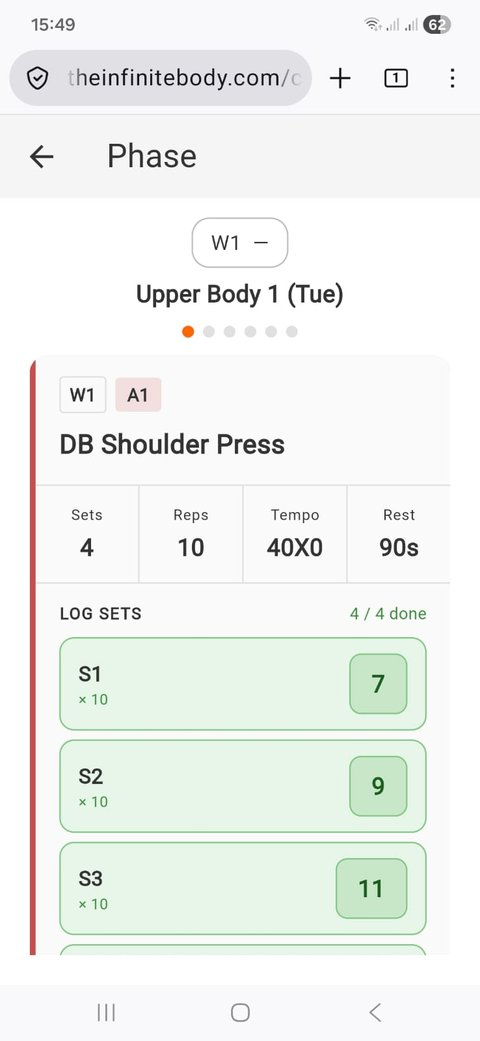
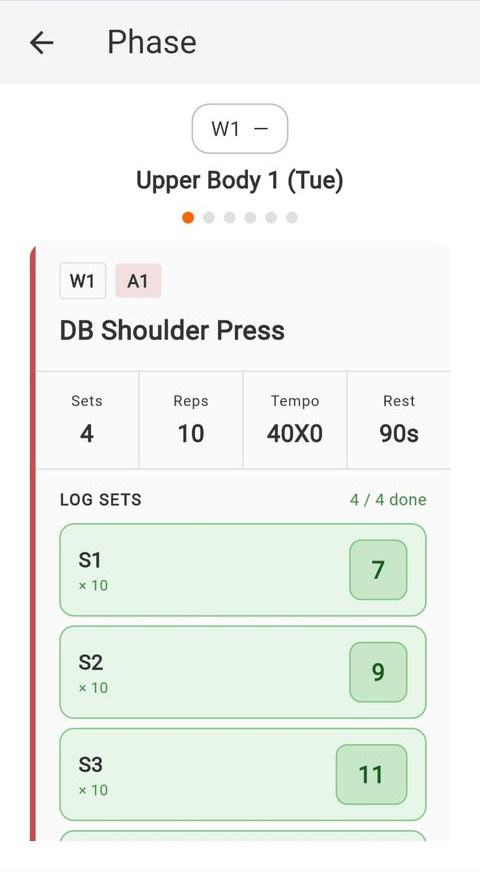
Homepage: settle orange tokens, crop browser chrome from screenshots
Brand orange corrected to Hagen's #ff6500 (was #ff6600), with
--orange-bright re-derived as #ff7c1a. Adds --orange-rgb and
--orange-bright-rgb so the alpha tints derive from the token instead
of repeating literal rgb triples, and swaps every hardcoded #ff7d1a
(including inline SVG fill/stroke attrs) for var(--orange-bright).
Sections can now only consume tokens.

Crops the Android status/URL bar off the phone screenshot and the
baked-in device border plus system bar off the matrix screenshot --
the browser chrome undercut the "this isn't a website" positioning.

app-set-logging.jpg was byte-identical to app-phase-logging.jpg;
deduped to one asset referenced twice. Also adds fetchpriority=high
to the hero image (it is the LCP element) and drops a no-op
aria-hidden="false".

diff --git a/index-v2.html b/index-v2.html
@@ -19,9 +19,11 @@
 <link href="https://fonts.googleapis.com/css2?family=Poppins:wght@500;600;700;800&family=Hanken+Grotesk:wght@400;500;600;700&family=Caveat:wght@600&display=swap" rel="stylesheet">
 <style>
   :root{
-    --orange:#ff6600;
-    --orange-bright:#ff7d1a;
+    --orange:#ff6500;
+    --orange-bright:#ff7c1a;
     --orange-soft:#fff1e6;
+    --orange-rgb:255,101,0;
+    --orange-bright-rgb:255,124,26;
     --ink:#1f2024;
     --ink-deep:#161719;
     --charcoal:#2b2c30;
@@ -77,8 +79,8 @@
     transition:transform .18s ease, box-shadow .18s ease, background .18s ease;
     white-space:nowrap;
   }
-  .btn-primary{background:var(--orange);color:#fff;box-shadow:0 6px 18px rgba(255,102,0,.32)}
-  .btn-primary:hover{background:var(--orange-bright);transform:translateY(-2px);box-shadow:0 10px 26px rgba(255,102,0,.42)}
+  .btn-primary{background:var(--orange);color:#fff;box-shadow:0 6px 18px rgba(var(--orange-rgb),.32)}
+  .btn-primary:hover{background:var(--orange-bright);transform:translateY(-2px);box-shadow:0 10px 26px rgba(var(--orange-rgb),.42)}
   .btn-primary .arrow{transition:transform .18s ease}
   .btn-primary:hover .arrow{transform:translateX(4px)}
   .btn-ghost{background:transparent;color:var(--ink);border:1.5px solid var(--line);}
@@ -119,7 +121,7 @@
   .hero{
     position:relative;padding:78px 0 90px;
     background:
-      radial-gradient(900px 420px at 78% -8%, rgba(255,102,0,.10), transparent 60%),
+      radial-gradient(900px 420px at 78% -8%, rgba(var(--orange-rgb),.10), transparent 60%),
       linear-gradient(180deg,#fff 0%, #fafbfc 100%);
     overflow:hidden;
   }
@@ -182,7 +184,7 @@
             mask-image:radial-gradient(620px 440px at 86% 2%,#000,transparent 72%)}
   .pain-grid{display:grid;grid-template-columns:repeat(2,1fr);gap:18px;position:relative}
   .pain{display:flex;gap:14px;align-items:flex-start;background:var(--charcoal-2);border:1px solid var(--line-dark);border-radius:14px;padding:22px 24px}
-  .pain .x{flex:none;width:26px;height:26px;border-radius:7px;background:rgba(255,102,0,.16);color:var(--orange-bright);display:grid;place-items:center;font-weight:700;font-family:var(--display);font-size:.95rem}
+  .pain .x{flex:none;width:26px;height:26px;border-radius:7px;background:rgba(var(--orange-rgb),.16);color:var(--orange-bright);display:grid;place-items:center;font-weight:700;font-family:var(--display);font-size:.95rem}
   .pain p{color:#d7d9dd;font-size:1rem}
   .pain p b{color:#fff}
   .pivot{margin-top:40px;text-align:center;font-family:var(--display);font-weight:600;font-size:1.25rem;color:#fff}
@@ -209,11 +211,11 @@
   .screens-stack .screen-card.back{width:84%;z-index:1}
   .proof-points{list-style:none;display:flex;flex-direction:column;gap:22px;margin-top:6px}
   .proof-points li{display:flex;gap:16px;align-items:flex-start}
-  .proof-points .ic{flex:none;width:42px;height:42px;border-radius:11px;background:rgba(255,102,0,.16);display:grid;place-items:center}
+  .proof-points .ic{flex:none;width:42px;height:42px;border-radius:11px;background:rgba(var(--orange-rgb),.16);display:grid;place-items:center}
   .proof-points h4{font-size:1.12rem;color:#fff;margin-bottom:3px}
   .proof-points p{color:#c4c7cd;font-size:.98rem}
   .proof-note{margin-top:30px;font-size:.92rem;color:var(--grey-light);display:flex;align-items:center;gap:10px}
-  .proof-note .pill{font-family:var(--display);font-weight:600;font-size:.72rem;letter-spacing:.12em;text-transform:uppercase;color:var(--orange-bright);border:1px solid rgba(255,125,26,.4);padding:4px 9px;border-radius:6px}
+  .proof-note .pill{font-family:var(--display);font-weight:600;font-size:.72rem;letter-spacing:.12em;text-transform:uppercase;color:var(--orange-bright);border:1px solid rgba(var(--orange-bright-rgb),.4);padding:4px 9px;border-radius:6px}
 
   /* method + about */
   .about-grid{display:grid;grid-template-columns:.85fr 1.15fr;gap:56px;align-items:center}
@@ -251,7 +253,7 @@
   .faq details p{padding:0 4px 24px;color:var(--grey);font-size:1.02rem;max-width:680px}
 
   /* final cta */
-  .finalcta{background:radial-gradient(700px 380px at 80% 10%,rgba(255,102,0,.18),transparent 60%),var(--ink-deep);color:#fff;text-align:center;position:relative;overflow:hidden}
+  .finalcta{background:radial-gradient(700px 380px at 80% 10%,rgba(var(--orange-rgb),.18),transparent 60%),var(--ink-deep);color:#fff;text-align:center;position:relative;overflow:hidden}
   .finalcta .wrap{position:relative;z-index:2;padding:104px 24px}
   .finalcta h2{font-size:clamp(2rem,4vw,3rem);font-weight:800;max-width:780px;margin:0 auto}
   .finalcta p{color:#c4c7cd;font-size:1.15rem;margin:20px auto 34px;max-width:540px}
@@ -325,8 +327,8 @@
       <p class="hero-cta reveal d4"><span class="micro">Free · ~20 minutes · <b>no pitch, just a fit check</b></span></p>
     </div>
 
-    <div class="device reveal d2" aria-hidden="false">
-      <img src="assets/app-phase-logging.jpg" width="480" height="1041" decoding="async" alt="The Infinite Body app showing a workout phase with set-by-set logging">
+    <div class="device reveal d2">
+      <img src="assets/app-phase-logging.jpg" width="480" height="872" fetchpriority="high" decoding="async" alt="The Infinite Body app showing a workout phase with set-by-set logging">
       <div class="tag"><span class="dot"></span> 4 / 4 sets logged</div>
     </div>
   </div>
@@ -335,10 +337,10 @@
 <!-- ============ TRUST STRIP ============ -->
 <div class="trust">
   <div class="wrap">
-    <div class="item"><svg width="18" height="18" viewBox="0 0 24 24" fill="none"><path d="M12 2l2.5 6.5L21 9l-5 4.5L17.5 21 12 17l-5.5 4L8 13.5 3 9l6.5-.5z" fill="#ff7d1a"/></svg> <b>Coaching since 2008</b></div>
-    <div class="item"><svg width="18" height="18" viewBox="0 0 24 24" fill="none"><path d="M3 12h4l3 7 4-14 3 7h4" stroke="#ff7d1a" stroke-width="2" stroke-linecap="round" stroke-linejoin="round"/></svg> Loads calculated from <b>your real maxes</b></div>
-    <div class="item"><svg width="18" height="18" viewBox="0 0 24 24" fill="none"><rect x="3" y="4" width="18" height="16" rx="2" stroke="#ff7d1a" stroke-width="2"/><path d="M3 9h18" stroke="#ff7d1a" stroke-width="2"/></svg> Periodised phases, <b>not random workouts</b></div>
-    <div class="item"><svg width="18" height="18" viewBox="0 0 24 24" fill="none"><path d="M5 12l5 5L20 6" stroke="#ff7d1a" stroke-width="2.2" stroke-linecap="round" stroke-linejoin="round"/></svg> Track <b>every set in the app</b></div>
+    <div class="item"><svg width="18" height="18" viewBox="0 0 24 24" fill="none"><path d="M12 2l2.5 6.5L21 9l-5 4.5L17.5 21 12 17l-5.5 4L8 13.5 3 9l6.5-.5z" fill="var(--orange-bright)"/></svg> <b>Coaching since 2008</b></div>
+    <div class="item"><svg width="18" height="18" viewBox="0 0 24 24" fill="none"><path d="M3 12h4l3 7 4-14 3 7h4" stroke="var(--orange-bright)" stroke-width="2" stroke-linecap="round" stroke-linejoin="round"/></svg> Loads calculated from <b>your real maxes</b></div>
+    <div class="item"><svg width="18" height="18" viewBox="0 0 24 24" fill="none"><rect x="3" y="4" width="18" height="16" rx="2" stroke="var(--orange-bright)" stroke-width="2"/><path d="M3 9h18" stroke="var(--orange-bright)" stroke-width="2"/></svg> Periodised phases, <b>not random workouts</b></div>
+    <div class="item"><svg width="18" height="18" viewBox="0 0 24 24" fill="none"><path d="M5 12l5 5L20 6" stroke="var(--orange-bright)" stroke-width="2.2" stroke-linecap="round" stroke-linejoin="round"/></svg> Track <b>every set in the app</b></div>
   </div>
 </div>
 
@@ -401,11 +403,11 @@
       <div class="screens-stack reveal">
         <div class="screen-card back">
           <div class="bar"><i></i><i></i><i></i><span class="url">theinfinitebody.com</span></div>
-          <img src="assets/app-training-matrix.jpg" width="720" height="1258" loading="lazy" decoding="async" alt="The Infinite Body app: weekly Training Matrix and program with sets, reps, tempo and rest for each prescribed exercise">
+          <img src="assets/app-training-matrix.jpg" width="716" height="1227" loading="lazy" decoding="async" alt="The Infinite Body app: weekly Training Matrix and program with sets, reps, tempo and rest for each prescribed exercise">
         </div>
         <div class="screen-card front">
           <div class="bar"><i></i><i></i><i></i></div>
-          <img src="assets/app-set-logging.jpg" width="480" height="1041" loading="lazy" decoding="async" alt="Logging sets for DB Shoulder Press in the app, 4 of 4 sets done">
+          <img src="assets/app-phase-logging.jpg" width="480" height="872" loading="lazy" decoding="async" alt="Logging sets for DB Shoulder Press in the app, 4 of 4 sets done">
         </div>
       </div>
       <div class="reveal">
@@ -413,11 +415,11 @@
         <h2 style="font-size:clamp(1.9rem,3.4vw,2.7rem);font-weight:800;color:#fff">This isn't a PDF. It's a <span class="accent">living system</span>.</h2>
         <ul class="proof-points">
           <li>
-            <span class="ic"><svg width="22" height="22" viewBox="0 0 24 24" fill="none"><rect x="3" y="3" width="18" height="18" rx="2" stroke="#ff7d1a" stroke-width="2"/><path d="M9 3v18M3 9h18" stroke="#ff7d1a" stroke-width="1.6"/></svg></span>
+            <span class="ic"><svg width="22" height="22" viewBox="0 0 24 24" fill="none"><rect x="3" y="3" width="18" height="18" rx="2" stroke="var(--orange-bright)" stroke-width="2"/><path d="M9 3v18M3 9h18" stroke="var(--orange-bright)" stroke-width="1.6"/></svg></span>
             <div><h4>See your whole week at a glance</h4><p>The Training Matrix lays out every session — and every prescription: sets, reps, tempo, rest, all calculated to your target intensity.</p></div>
           </li>
           <li>
-            <span class="ic"><svg width="22" height="22" viewBox="0 0 24 24" fill="none"><path d="M3 12h4l3 7 4-14 3 7h4" stroke="#ff7d1a" stroke-width="2" stroke-linecap="round" stroke-linejoin="round"/></svg></span>
+            <span class="ic"><svg width="22" height="22" viewBox="0 0 24 24" fill="none"><path d="M3 12h4l3 7 4-14 3 7h4" stroke="var(--orange-bright)" stroke-width="2" stroke-linecap="round" stroke-linejoin="round"/></svg></span>
             <div><h4>Loads from your real numbers</h4><p>The Limiting Lifts engine sets every working weight from your own maxes — so you're always lifting the right load, never guessing.</p></div>
           </li>
           <li>
